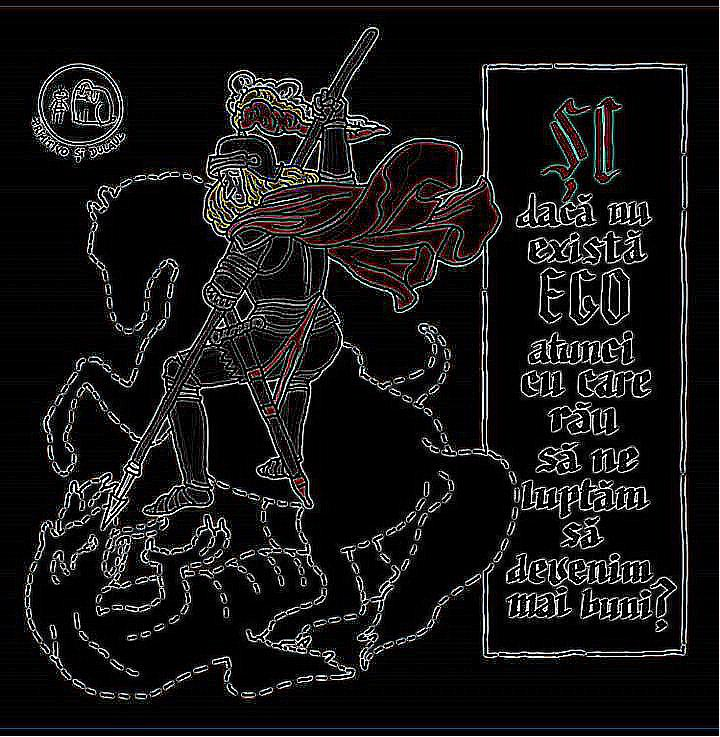
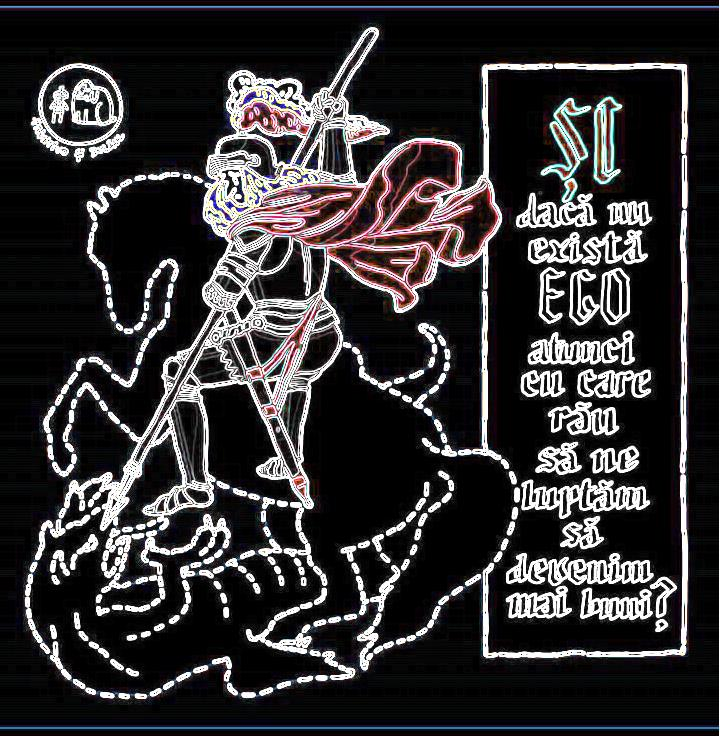
Implemented multi kernel filtering

Changed region(s): [[0.0, 0.0, 1.0, 0.9986]]

diff --git a/src/main/lib/effect/filter.go b/src/main/lib/effect/filter.go
@@ -1,47 +1,102 @@
 package effect
 
 import (
+	wrap "./wrap"
 	core ".."
-	"../strategy"
+	"./strategy"
 	"fmt"
 	"image"
 	"image/color"
 	"image/draw"
 )
 
-// SingleKernel encapsulates the logic data needed for a filter using a single kernel
+// SingleKernel encapsulates the data needed for a filter using a single kernel
 // and implements the general way such a filter is applied on an image
 type SingleKernel struct {
 	core.BaseEffect
-	Strategy strategy.EdgeHandlingStrategy
-	Matrix   [][]float64
+	EdgeHandling strategy.EdgeHandlingStrategy
+	Kernel       wrap.Matrix
 }
 
 func (sk *SingleKernel) Apply(img image.Image) core.Promise {
 	ret := core.CreateRGBA(img.Bounds())
 	contract := sk.GetEngine().Contract(img.Bounds().Dy())
-	radius := (len(sk.Matrix) - 1)/2
+	radius := sk.Kernel.Radius()
 
 	for i := img.Bounds().Min.Y; i < img.Bounds().Max.Y; i++ {
 		y := i
 		if err := contract.PlaceOrder(func() {
 			for x := img.Bounds().Min.X; x < img.Bounds().Max.X; x++ {
-
 				var newRed float64
 				var newGreen float64
 				var newBlue float64
 				for yy := -radius; yy <= radius; yy++ {
 					for xx := -radius; xx <= radius; xx++ {
-						r, g, b, _ := sk.Strategy(&img, x + xx, y + yy).RGBA()
+						r, g, b, _ := sk.EdgeHandling(&img, x+xx, y+yy).RGBA()
 
-						newRed += float64(r) * sk.Matrix[yy + radius][xx + radius]
-						newGreen += float64(g) * sk.Matrix[yy + radius][xx + radius]
-						newBlue += float64(b) * sk.Matrix[yy + radius][xx + radius]
+						newRed += float64(r) * sk.Kernel.Get(xx+radius, yy+radius)
+						newGreen += float64(g) * sk.Kernel.Get(xx+radius, yy+radius)
+						newBlue += float64(b) * sk.Kernel.Get(xx+radius, yy+radius)
 					}
 				}
 
-
 				ret.(draw.Image).Set(x, y, color.RGBA64{R: uint16(core.ClampUint16(newRed)), G: uint16(core.ClampUint16(newGreen)), B: uint16(core.ClampUint16(newBlue))})
+			}
+		}); err != nil {
+			fmt.Print(err)
+			break
+		}
+	}
+
+	return core.NewPromise(ret, &contract)
+}
+
+// MultiKernel encapsulates the logic data needed for a filter using multiple kernels
+// and implements a customizable way of defining the behaviour
+type MultiKernel struct {
+	core.BaseEffect
+	EdgeHandling  strategy.EdgeHandlingStrategy
+	ResultMerging strategy.ResultMergingStrategy
+	Kernels       []wrap.Matrix
+}
+
+func (mk *MultiKernel) Apply(img image.Image) core.Promise {
+	ret := core.CreateRGBA(img.Bounds())
+	contract := mk.GetEngine().Contract(img.Bounds().Dy())
+
+	radiusNumber := len(mk.Kernels)
+	radiusList := make([]int, len(mk.Kernels))
+	for i, _ := range radiusList {
+		radiusList[i] = mk.Kernels[i].Radius()
+	}
+
+	for i := img.Bounds().Min.Y; i < img.Bounds().Max.Y; i++ {
+		y := i
+		if err := contract.PlaceOrder(func() {
+			for x := img.Bounds().Min.X; x < img.Bounds().Max.X; x++ {
+				newRed := make([]float64, radiusNumber)
+				newGreen := make([]float64, radiusNumber)
+				newBlue := make([]float64, radiusNumber)
+
+				for index, kernel := range mk.Kernels {
+					radius := radiusList[index]
+					for yy := -radius; yy <= radius; yy++ {
+						for xx := -radius; xx <= radius; xx++ {
+							r, g, b, _ := mk.EdgeHandling(&img, x+xx, y+yy).RGBA()
+
+							newRed[index] += float64(r) * kernel.Get(xx+radius, yy+radius)
+							newGreen[index] += float64(g) * kernel.Get(xx+radius, yy+radius)
+							newBlue[index] += float64(b) * kernel.Get(xx+radius, yy+radius)
+						}
+					}
+				}
+
+				ret.(draw.Image).Set(x, y,
+					color.RGBA64{
+						R: uint16(core.ClampUint16(mk.ResultMerging(newRed))),
+						G: uint16(core.ClampUint16(mk.ResultMerging(newGreen))),
+						B: uint16(core.ClampUint16(mk.ResultMerging(newBlue))),
+					})
 			}
 		}); err != nil {
 			fmt.Print(err)

diff --git a/src/main/lib/effect/strategy/edge_handling.go b/src/main/lib/effect/strategy/edge_handling.go
@@ -5,8 +5,11 @@ import (
 	"image/color"
 )
 
+// EdgeHandlingStrategy defines an interface for all functions used
+// to determine the behaviour of filtering around the edge of the image
 type EdgeHandlingStrategy func(*image.Image, int, int) color.Color
 
+// Extends returns the color of the closest pixel of the image
 func Extend(img *image.Image, x, y int) color.Color {
 	bounds := (*img).Bounds()
 
@@ -25,6 +28,8 @@ func Extend(img *image.Image, x, y int) color.Color {
 	return (*img).At(x, y)
 }
 
+// Wrap returns the color of the pixel as if the image is conceptually
+// wrapped (or tiled) and values are taken from the opposite edge or corner.
 func Wrap(img *image.Image, x, y int) color.Color {
 	bounds := (*img).Bounds()
 
@@ -43,6 +48,9 @@ func Wrap(img *image.Image, x, y int) color.Color {
 	return (*img).At(x, y)
 }
 
+// Mirror returns the color of the pixel as if the image is conceptually
+// mirrored at the edges. For example, attempting to read a pixel 3 units
+// outside an edge reads one 3 units inside the edge instead.
 func Mirror(img *image.Image, x, y int) color.Color {
 	bounds := (*img).Bounds()
 

diff --git a/src/main/main.go b/src/main/main.go
@@ -3,7 +3,8 @@ package main
 import (
 	lib "./lib"
 	effect "./lib/effect"
-	strategy "./lib/strategy"
+	strategy "./lib/effect/strategy"
+	wrap "./lib/effect/wrap"
 
 	"fmt"
 )
@@ -12,13 +13,21 @@ func main() {
 	img := lib.Load("../resources/test.jpg")
 
 	ke := lib.NewKromEngine(10, 0)
-	f := effect.SingleKernel{}
+	f := effect.MultiKernel{}
 	f.TransferTo(&ke)
-	f.Strategy = strategy.Extend
-	f.Matrix = [][]float64{
-		{-1, -1, -1},
-		{-1, 8, -1},
-		{-1, -1, -1},
+	f.EdgeHandling = strategy.Extend
+	f.ResultMerging = strategy.SobelGradient
+	f.Kernels = []wrap.Matrix{
+		{
+			{1, 0, -1},
+			{2, 0, -2},
+			{1, 0, -1},
+		},
+		{
+			{1, 2, 1},
+			{0, 0, 0},
+			{-1, -2, -1},
+		},
 	}
 	p := f.Apply(img)
 

diff --git a/src/main/lib/effect/wrap/matrix.go b/src/main/lib/effect/wrap/matrix.go
@@ -1,0 +1,15 @@
+package wrap
+
+type Matrix [][]float64
+
+func (m *Matrix) Get(x, y int) float64 {
+	return (*m)[y][x]
+}
+
+func (m *Matrix) Set(x, y int, val float64) {
+	(*m)[y][x] = val
+}
+
+func (m *Matrix) Radius() int {
+	return (len(*m) - 1) / 2
+}

diff --git a/src/main/lib/effect/strategy/result_merging.go b/src/main/lib/effect/strategy/result_merging.go
@@ -1,0 +1,14 @@
+package strategy
+
+import "math"
+
+type ResultMergingStrategy func([]float64) float64
+
+func SobelGradient(results []float64) float64 {
+	var sum float64
+	for _, res := range results {
+		sum += res * res
+	}
+
+	return math.Sqrt(sum)
+}
